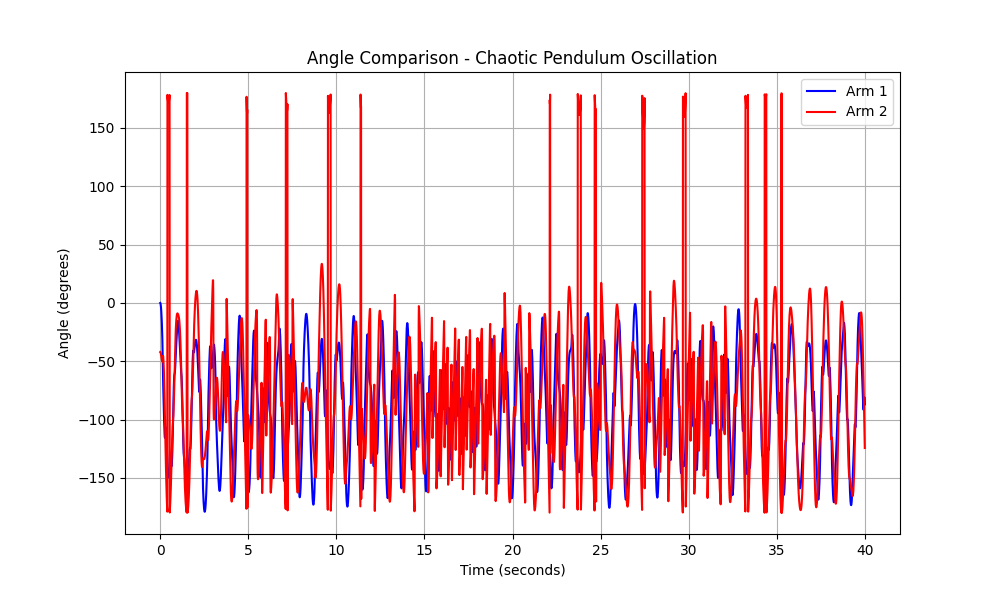
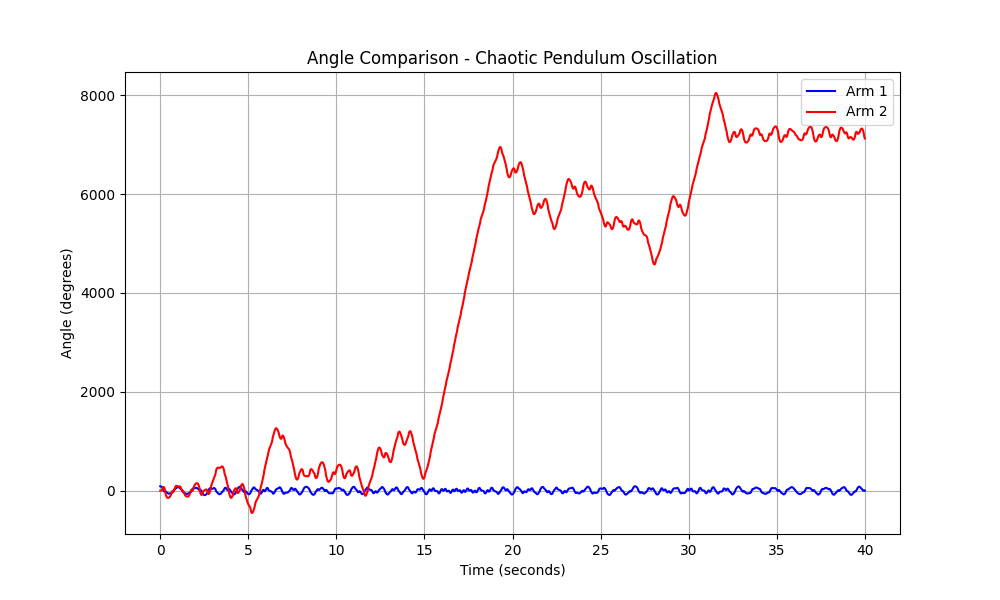
Trying to make dropdowns

diff --git a/Simulations/simulation.py b/Simulations/simulation.py
@@ -121,14 +121,18 @@ def process_pendulum_data(solution: dict) -> Tuple[List[PendulumData], List[Pend
     theta2 = solution.y[1]
     times = solution.t
     
+    # Compute Cartesian coordinates for all time steps
+    x1, y1, x2, y2 = get_cartesian_coords(theta1, theta2)
+    
+    # Create PendulumData using ODE angles (theta1, theta2) directly
     arm1_data = [
-        PendulumData(t, math.atan2(y, x), (x, y))
-        for t, x, y in zip(times, *get_cartesian_coords(theta1, theta2)[:2])
+        PendulumData(t, th1, (x, y))
+        for t, th1, x, y in zip(times, theta1, x1, y1)
     ]
     
     arm2_data = [
-        PendulumData(t, math.atan2(y, x), (x, y))
-        for t, x, y in zip(times, *get_cartesian_coords(theta1, theta2)[2:])
+        PendulumData(t, th2, (x, y))
+        for t, th2, x, y in zip(times, theta2, x2, y2)
     ]
     
     return arm1_data, arm2_data

diff --git a/README.md b/README.md
@@ -1,5 +1,10 @@
- # Content
+# Content
 - [Overview](#overview)
+<details>
+<summary markdown="1">[Video Processing](VideoProcessing/README.md)</summary>
+This is how you dropdown.
+</details>
+
 - [Video Processing](VideoProcessing/README.md)
   - [Motivation](VideoProcessing/README.md#motivation)
     - [Dev Process](VideoProcessing/README.md#dev-process)
